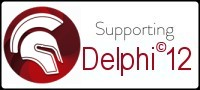
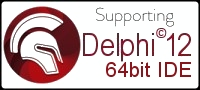
Version 4.4.3 - Added support for Delphi 12 64bit IDE

diff --git a/README.htm b/README.htm
@@ -31,7 +31,7 @@ td{
 </style>
 <h1>SVGIconImageList <a href="https://opensource.org/licenses/Apache-2.0"><img src="https://img.shields.io/badge/License-Apache%202.0-yellowgreen.svg" alt="License"/></a></h1>
 <h2>Three engines to render SVG (Delphi Image32, Skia4Delphi, Direct2D wrapper) and four components to simplify use of SVG images (resize, fixedcolor, grayscale&hellip;)</h2>
-<h3>Actual official version 4.4.2 (VCL+FMX)</h3>
+<h3>Actual official version 4.4.3 (VCL+FMX)</h3>
 <table>
   <tr>
     <th>Component</th>
@@ -134,6 +134,10 @@ td{
 <p><img src="./Demo/Images/SupportingDelphi.jpg" alt="Delphi 12 Support"/></p>
 <p>Related links: <a href="https://www.embarcadero.com">embarcadero.com</a> - <a href="https://learndelphi.org">learndelphi.org</a></p>
 <h3>RELEASE NOTES</h3>
+<p>12 Mar 2025 - Version 4.4.3</p>
+<ul>
+<li>Added support for Delphi 12 64bit IDE</li>
+</ul>
 <p>26 Feb 2025: version 4.4.2 (VCL+FMX)</p>
 <ul>
 <li>Added option to filter Icons from web by &ldquo;Collection&rdquo;</li>

diff --git a/README.md b/README.md
@@ -2,7 +2,7 @@
 
 ## Three engines to render SVG (Delphi Image32, Skia4Delphi, Direct2D wrapper) and four components to simplify use of SVG images (resize, fixedcolor, grayscale...)
 
-### Actual official version 4.4.2 (VCL+FMX)
+### Actual official version 4.4.3 (VCL+FMX)
 
 | Component | Description |
 | - | - |
@@ -108,6 +108,9 @@ A similar project made by Ethea for Icon Fonts: [https://github.com/EtheaDev/Ico
 Related links: [embarcadero.com](https://www.embarcadero.com) - [learndelphi.org](https://learndelphi.org)
 
 ### RELEASE NOTES
+12 Mar 2025 - Version 4.4.3
+- Added support for Delphi 12 64bit IDE
+
 26 Feb 2025: version 4.4.2 (VCL+FMX)
 - Added option to filter Icons from web by "Collection"
 - Aligned to Image32 4.6 Released on 25 Feb 2025
